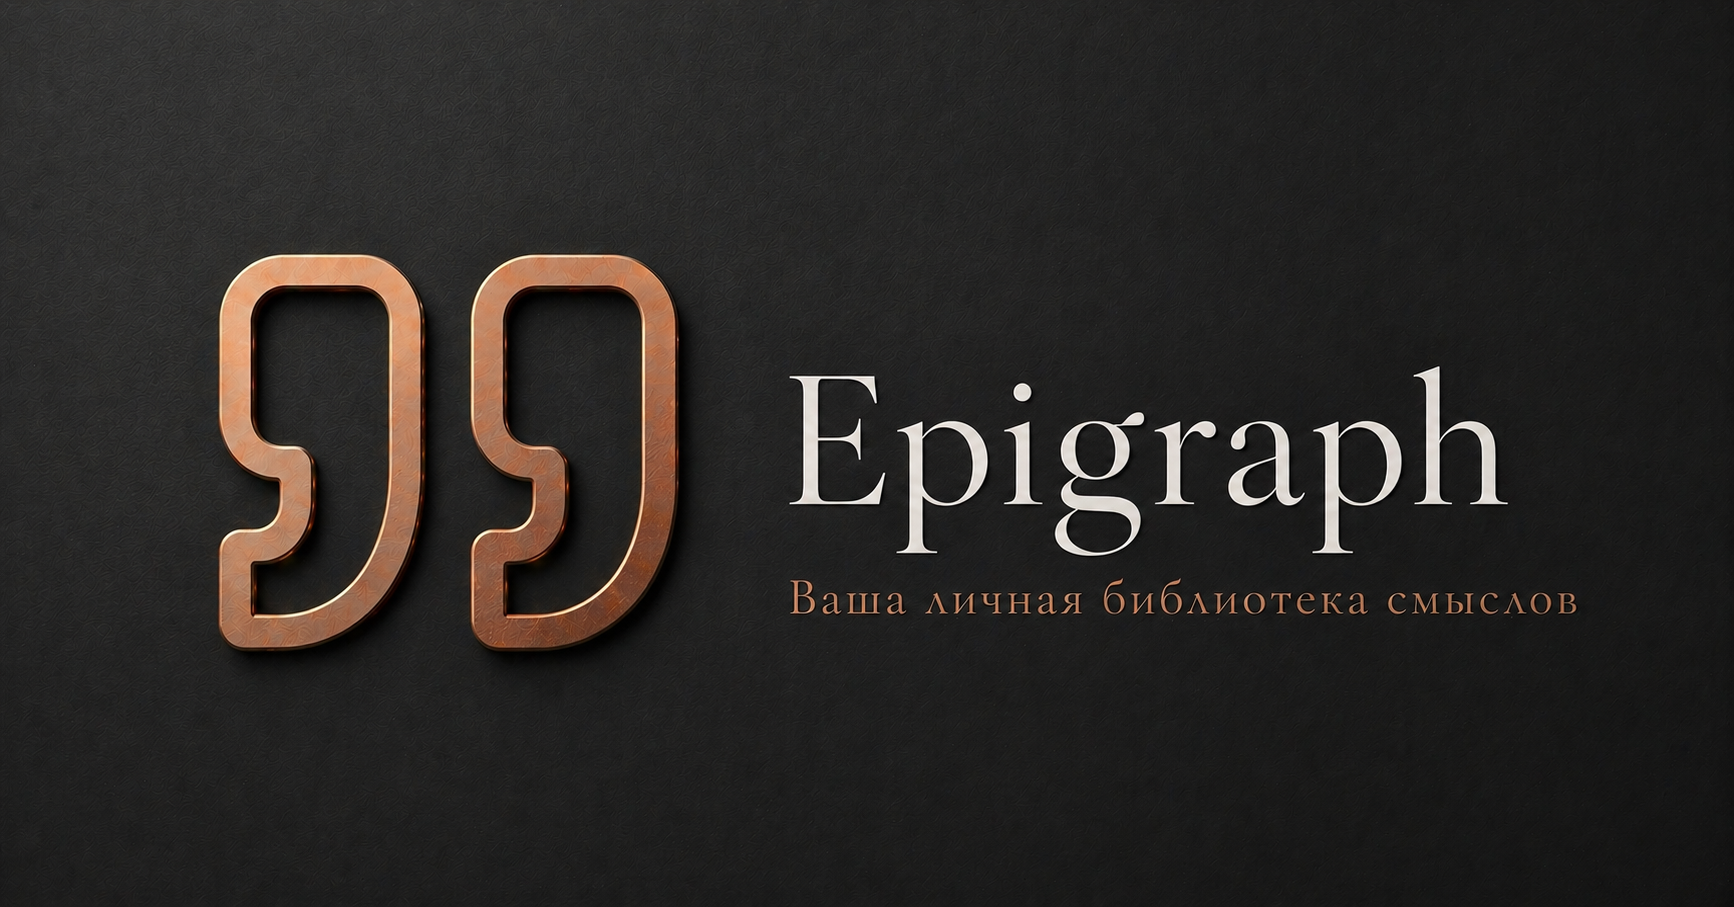
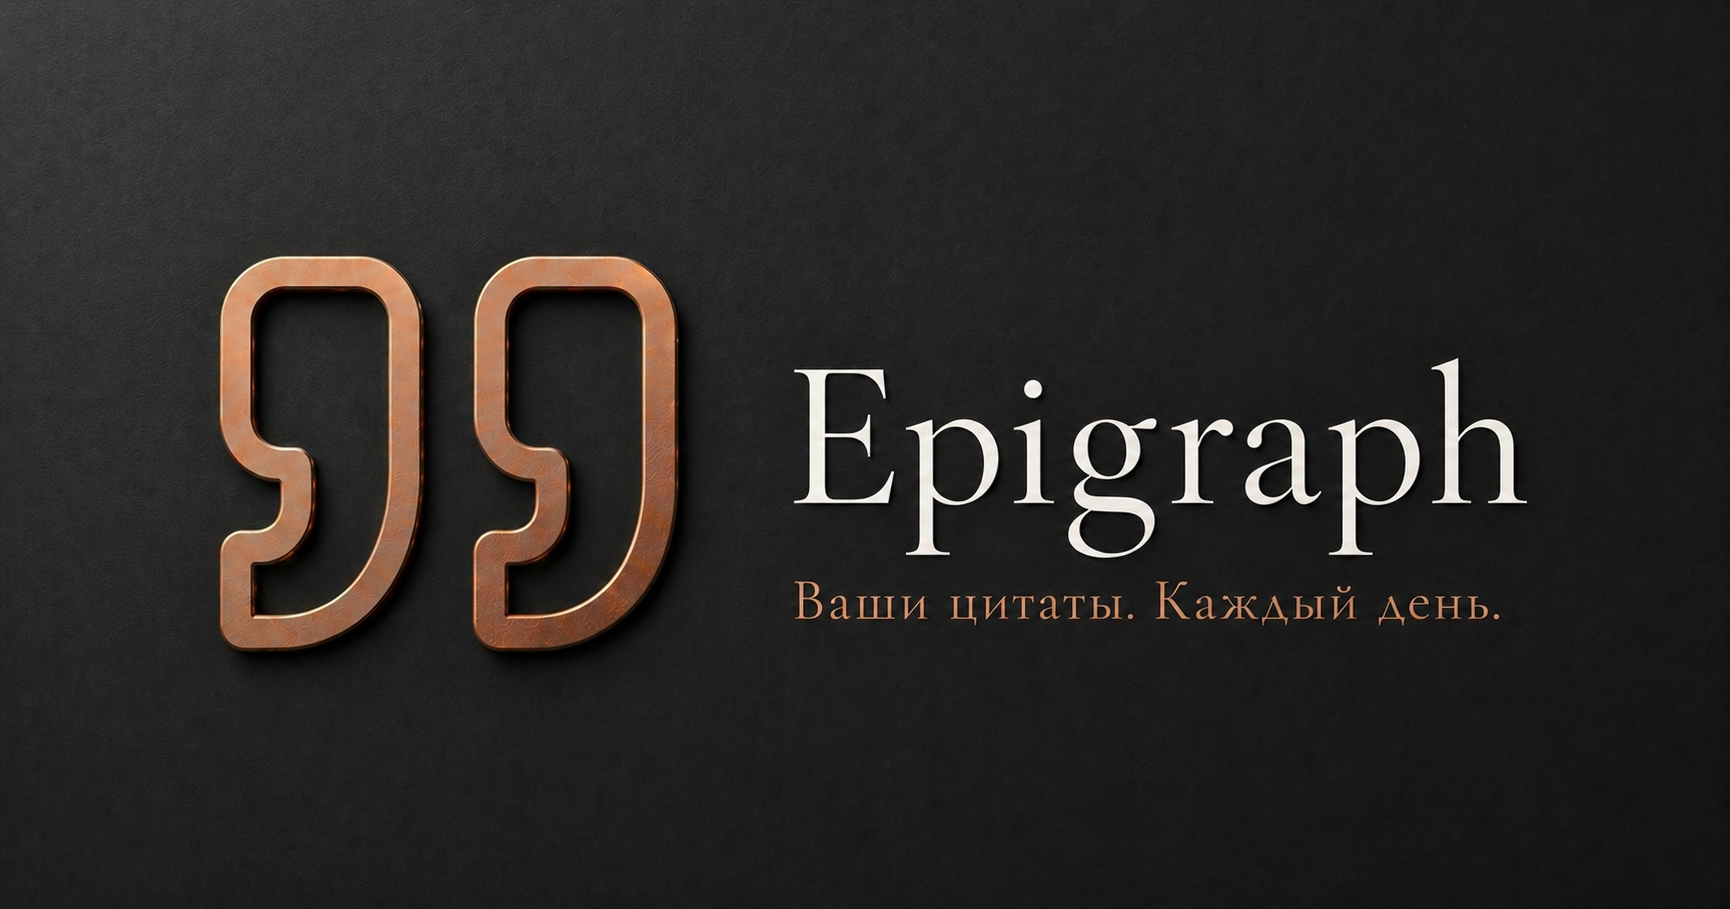
[TASK-62] Redesign auth screens - login gets branding header, register gets quote ornament

diff --git a/backend/src/main/resources/static/index.html b/backend/src/main/resources/static/index.html
@@ -4,7 +4,7 @@
     <meta charset="UTF-8">
     <meta name="viewport" content="width=device-width, initial-scale=1.0">
     <meta name="description"
-          content="Храните и перечитывайте цитаты, которые вас вдохновляют. Ваша личная библиотека смыслов.">
+          content="Ваши цитаты. Каждый день.">
     <meta name="theme-color" content="#f5f2ec" media="(prefers-color-scheme: light)">
     <meta name="theme-color" content="#18160f" media="(prefers-color-scheme: dark)">
     <meta name="theme-color" content="#f5f2ec" id="theme-color-meta">
@@ -33,9 +33,8 @@
     <!-- Open Graph / Social Preview -->
     <meta property="og:type" content="website">
     <meta property="og:url" content="https://epigraph.me/">
-    <meta property="og:title" content="Epigraph — личная коллекция цитат">
-    <meta property="og:description"
-          content="Храните и перечитывайте цитаты, которые вас вдохновляют. Ваша личная библиотека смыслов.">
+    <meta property="og:title" content="Epigraph — ваши цитаты каждый день">
+    <meta property="og:description" content="Ваши цитаты. Каждый день.">
     <meta property="og:image" content="https://epigraph.me/og-image.png">
     <meta property="og:image:width" content="1200">
     <meta property="og:image:height" content="630">
@@ -44,9 +43,8 @@
 
     <!-- Twitter / X Card -->
     <meta name="twitter:card" content="summary_large_image">
-    <meta name="twitter:title" content="Epigraph — личная коллекция цитат">
-    <meta name="twitter:description"
-          content="Храните и перечитывайте цитаты, которые вас вдохновляют. Ваша личная библиотека смыслов.">
+    <meta name="twitter:title" content="Epigraph — ваши цитаты каждый день">
+    <meta name="twitter:description" content="Ваши цитаты. Каждый день.">
     <meta name="twitter:image" content="https://epigraph.me/og-image.png">
     <link rel="apple-touch-icon" href="/icon.png">
     <link rel="preconnect" href="https://fonts.googleapis.com">
@@ -1735,7 +1733,7 @@
             font-size: var(--text-sm);
             color: var(--color-text-muted);
             text-align: center;
-            margin-top: calc(-1 * var(--space-3));
+            margin-top: var(--space-4);
         }
 
         .auth-field {
@@ -1805,13 +1803,164 @@
             background: var(--color-divider);
         }
 
-        .auth-card--register {
-            border-color: var(--color-primary);
-            background: color-mix(in oklch, var(--color-primary) 4%, var(--color-surface));
+        /* Login mode: compact card with branding header */
+        .auth-login-header {
+            margin: calc(-1 * var(--space-8)) calc(-1 * var(--space-8)) 0;
+            padding: var(--space-5) var(--space-8);
+            background: var(--color-surface-offset);
+            border-bottom: 1px solid var(--color-border);
+            border-radius: var(--radius-lg) var(--radius-lg) 0 0;
+            text-align: center;
         }
 
-        .auth-card--register .auth-title {
+        .auth-login-header-logo {
+            display: inline-flex;
+            align-items: center;
+            gap: var(--space-2);
+            font-family: var(--font-display);
+            font-size: var(--text-lg);
+            font-weight: 600;
+            color: var(--color-text);
+            margin-bottom: var(--space-1);
+        }
+
+        .auth-login-header-logo svg {
             color: var(--color-primary);
+            flex-shrink: 0;
+        }
+
+        .auth-login-tagline {
+            font-family: var(--font-display);
+            font-style: italic;
+            font-size: var(--text-sm);
+            color: var(--color-text-muted);
+            line-height: 1.5;
+        }
+
+        /* Register mode: wide two-column card */
+        .auth-card--register {
+            max-width: 780px;
+            flex-direction: row;
+            padding: 0;
+            overflow: hidden;
+            gap: 0;
+        }
+
+        /* Left decorative panel */
+        .auth-register-panel {
+            display: none;
+            flex-direction: column;
+            justify-content: space-between;
+            width: 300px;
+            flex-shrink: 0;
+            background: var(--color-surface-offset);
+            border-right: 1px solid var(--color-border);
+            padding: var(--space-8);
+            border-radius: var(--radius-lg) 0 0 var(--radius-lg);
+        }
+
+        .auth-card--register .auth-register-panel {
+            display: flex;
+        }
+
+        .auth-register-panel-logo {
+            display: flex;
+            align-items: center;
+            gap: var(--space-2);
+            font-family: var(--font-display);
+            font-size: var(--text-base);
+            font-weight: 600;
+            color: var(--color-text);
+        }
+
+        .auth-register-panel-logo svg {
+            color: var(--color-primary);
+            flex-shrink: 0;
+        }
+
+        .auth-register-panel-quotes {
+            display: flex;
+            flex-direction: column;
+            gap: var(--space-6);
+            flex: 1;
+            justify-content: center;
+            padding: var(--space-8) 0;
+        }
+
+        .auth-register-panel-quote {
+            border-left: 2px solid var(--color-primary);
+            padding-left: var(--space-4);
+        }
+
+        .auth-register-panel-quote p {
+            font-family: var(--font-display);
+            font-style: italic;
+            font-size: var(--text-sm);
+            color: var(--color-text);
+            line-height: 1.6;
+            margin-bottom: var(--space-1);
+            max-width: none;
+        }
+
+        .auth-register-panel-quote cite {
+            font-size: var(--text-xs);
+            color: var(--color-text-muted);
+            font-style: normal;
+        }
+
+        .auth-register-panel-tagline {
+            font-size: var(--text-xs);
+            color: var(--color-text-faint);
+        }
+
+        /* Right form column */
+        .auth-register-form-col {
+            display: none;
+            flex-direction: column;
+            gap: var(--space-5);
+            flex: 1;
+            padding: var(--space-8);
+            min-width: 0;
+        }
+
+        .auth-card--register .auth-register-form-col {
+            display: flex;
+        }
+
+        /* Hide top branding header in register mode (it's in left panel) */
+        .auth-card--register .auth-login-header {
+            display: none !important;
+        }
+
+        /* Register top heading inside form col */
+        .auth-register-top {
+            display: flex;
+            flex-direction: column;
+            gap: var(--space-1);
+        }
+
+        .auth-register-heading {
+            font-family: var(--font-display);
+            font-size: var(--text-xl);
+            font-weight: 500;
+            color: var(--color-text);
+        }
+
+        .auth-register-sub {
+            font-size: var(--text-sm);
+            color: var(--color-text-muted);
+        }
+
+        /* Hide login-mode elements directly in the card when in register mode */
+        .auth-card--register > .auth-subtitle,
+        .auth-card--register > .auth-field,
+        .auth-card--register > #auth-password-hint,
+        .auth-card--register > .auth-error,
+        .auth-card--register > #auth-submit-btn,
+        .auth-card--register > .auth-divider,
+        .auth-card--register > .btn-google,
+        .auth-card--register > .auth-switch {
+            display: none !important;
         }
 
         .btn-google {
@@ -1892,7 +2041,81 @@
 <!-- AUTH MODAL -->
 <div class="auth-screen" id="auth-screen" onclick="handleAuthOverlayClick(event)">
     <div class="auth-card">
-        <h1 class="auth-title">Epigraph</h1>
+
+        <!-- Login branding header — visible in login mode -->
+        <div class="auth-login-header" id="auth-login-header">
+            <div class="auth-login-header-logo">
+                <svg width="18" height="18" viewBox="0 0 24 24" fill="none" stroke="currentColor" stroke-width="2" stroke-linecap="round" stroke-linejoin="round" aria-hidden="true">
+                    <path d="M3 21c3 0 7-1 7-8V5c0-1.25-.756-2.017-2-2H4c-1.25 0-2 .75-2 1.972V11c0 1.25.75 2 2 2 1 0 1 0 1 1v1c0 1-1 2-2 2s-1 .008-1 1.031V20c0 1 0 1 1 1z"/>
+                    <path d="M15 21c3 0 7-1 7-8V5c0-1.25-.757-2.017-2-2h-4c-1.25 0-2 .75-2 1.972V11c0 1.25.75 2 2 2h.75c0 2.25.25 4-2.75 4v3c0 1 0 1 1 1z"/>
+                </svg>
+                Epigraph
+            </div>
+            <p class="auth-login-tagline">Ваши цитаты. Каждый день.</p>
+        </div>
+
+        <!-- Register two-column layout — visible in register mode only -->
+        <div class="auth-register-panel" id="auth-register-panel">
+            <div class="auth-register-panel-logo">
+                <svg width="16" height="16" viewBox="0 0 24 24" fill="none" stroke="currentColor" stroke-width="2" stroke-linecap="round" stroke-linejoin="round" aria-hidden="true">
+                    <path d="M3 21c3 0 7-1 7-8V5c0-1.25-.756-2.017-2-2H4c-1.25 0-2 .75-2 1.972V11c0 1.25.75 2 2 2 1 0 1 0 1 1v1c0 1-1 2-2 2s-1 .008-1 1.031V20c0 1 0 1 1 1z"/>
+                    <path d="M15 21c3 0 7-1 7-8V5c0-1.25-.757-2.017-2-2h-4c-1.25 0-2 .75-2 1.972V11c0 1.25.75 2 2 2h.75c0 2.25.25 4-2.75 4v3c0 1 0 1 1 1z"/>
+                </svg>
+                Epigraph
+            </div>
+            <div class="auth-register-panel-quotes">
+                <div class="auth-register-panel-quote">
+                    <p>Не важно, как медленно ты идёшь, главное — не останавливаться.</p>
+                    <cite>— Конфуций</cite>
+                </div>
+                <div class="auth-register-panel-quote">
+                    <p>Жизнь — это то, что происходит, пока ты строишь другие планы.</p>
+                    <cite>— Джон Леннон</cite>
+                </div>
+                <div class="auth-register-panel-quote">
+                    <p>Начало — это половина всего.</p>
+                    <cite>— Аристотель</cite>
+                </div>
+            </div>
+            <p class="auth-register-panel-tagline">Ваши цитаты. Каждый день.</p>
+        </div>
+
+        <div class="auth-register-form-col" id="auth-register-form-col">
+            <div class="auth-register-top">
+                <h2 class="auth-register-heading">Создайте аккаунт</h2>
+                <p class="auth-register-sub">Это бесплатно. Навсегда.</p>
+            </div>
+            <div class="auth-field">
+                <label for="auth-email-reg">Email</label>
+                <input type="email" id="auth-email-reg" placeholder="[email redacted]" autocomplete="email">
+            </div>
+            <div class="auth-field">
+                <label for="auth-password-reg">Пароль</label>
+                <input type="password" id="auth-password-reg" placeholder="Минимум 8 символов" autocomplete="new-password">
+            </div>
+            <p id="auth-password-hint-reg" style="font-size:var(--text-xs);color:var(--color-text-muted);margin-top:calc(-1*var(--space-3))">
+                Минимум 8 символов, хотя бы одна буква и одна цифра.
+            </p>
+            <p class="auth-error" id="auth-error-reg"></p>
+            <button class="btn-primary" id="auth-submit-btn-reg" onclick="authSubmitRegister()">Зарегистрироваться</button>
+            <div class="auth-divider">или</div>
+            <button class="btn-google" onclick="loginWithGoogle()">
+                <svg width="18" height="18" viewBox="0 0 48 48">
+                    <path fill="#EA4335" d="M24 9.5c3.54 0 6.71 1.22 9.21 3.6l6.85-6.85C35.9 2.38 30.47 0 24 0 14.62 0 6.51 5.38 2.56 13.22l7.98 6.19C12.43 13.72 17.74 9.5 24 9.5z"/>
+                    <path fill="#4285F4" d="M46.98 24.55c0-1.57-.15-3.09-.38-4.55H24v9.02h12.94c-.58 2.96-2.26 5.48-4.78 7.18l7.73 6c4.51-4.18 7.09-10.36 7.09-17.65z"/>
+                    <path fill="#FBBC05" d="M10.53 28.59c-.48-1.45-.76-2.99-.76-4.59s.27-3.14.76-4.59l-7.98-6.19C.92 16.46 0 20.12 0 24c0 3.88.92 7.54 2.56 10.78l7.97-6.19z"/>
+                    <path fill="#34A853" d="M24 48c6.48 0 11.93-2.13 15.89-5.81l-7.73-6c-2.18 1.48-4.97 2.31-8.16 2.31-6.26 0-11.57-4.22-13.47-9.91l-7.98 6.19C6.51 42.62 14.62 48 24 48z"/>
+                </svg>
+                Войти через Google
+            </button>
+            <p class="auth-switch" style="text-align:center">
+                <span>Уже есть аккаунт?</span>
+                <button onclick="toggleAuthMode()">Войти</button>
+            </p>
+        </div>
+
+        <!-- Shown in login mode only -->
+        <h1 class="auth-title" id="auth-title-logo" style="display:none">Epigraph</h1>
         <p class="auth-subtitle" id="auth-subtitle">Войдите, чтобы продолжить</p>
 
         <div class="auth-field">
@@ -1901,7 +2124,7 @@
         </div>
         <div class="auth-field">
             <label for="auth-password">Пароль</label>
-            <input type="password" id="auth-password" placeholder="Минимум 6 символов" autocomplete="current-password">
+            <input type="password" id="auth-password" placeholder="Ваш пароль" autocomplete="current-password">
         </div>
 
         <p id="auth-password-hint"
@@ -1917,14 +2140,10 @@
 
         <button class="btn-google" onclick="loginWithGoogle()">
             <svg width="18" height="18" viewBox="0 0 48 48">
-                <path fill="#EA4335"
-                      d="M24 9.5c3.54 0 6.71 1.22 9.21 3.6l6.85-6.85C35.9 2.38 30.47 0 24 0 14.62 0 6.51 5.38 2.56 13.22l7.98 6.19C12.43 13.72 17.74 9.5 24 9.5z"/>
-                <path fill="#4285F4"
-                      d="M46.98 24.55c0-1.57-.15-3.09-.38-4.55H24v9.02h12.94c-.58 2.96-2.26 5.48-4.78 7.18l7.73 6c4.51-4.18 7.09-10.36 7.09-17.65z"/>
-                <path fill="#FBBC05"
-                      d="M10.53 28.59c-.48-1.45-.76-2.99-.76-4.59s.27-3.14.76-4.59l-7.98-6.19C.92 16.46 0 20.12 0 24c0 3.88.92 7.54 2.56 10.78l7.97-6.19z"/>
-                <path fill="#34A853"
-                      d="M24 48c6.48 0 11.93-2.13 15.89-5.81l-7.73-6c-2.18 1.48-4.97 2.31-8.16 2.31-6.26 0-11.57-4.22-13.47-9.91l-7.98 6.19C6.51 42.62 14.62 48 24 48z"/>
+                <path fill="#EA4335" d="M24 9.5c3.54 0 6.71 1.22 9.21 3.6l6.85-6.85C35.9 2.38 30.47 0 24 0 14.62 0 6.51 5.38 2.56 13.22l7.98 6.19C12.43 13.72 17.74 9.5 24 9.5z"/>
+                <path fill="#4285F4" d="M46.98 24.55c0-1.57-.15-3.09-.38-4.55H24v9.02h12.94c-.58 2.96-2.26 5.48-4.78 7.18l7.73 6c4.51-4.18 7.09-10.36 7.09-17.65z"/>
+                <path fill="#FBBC05" d="M10.53 28.59c-.48-1.45-.76-2.99-.76-4.59s.27-3.14.76-4.59l-7.98-6.19C.92 16.46 0 20.12 0 24c0 3.88.92 7.54 2.56 10.78l7.97-6.19z"/>
+                <path fill="#34A853" d="M24 48c6.48 0 11.93-2.13 15.89-5.81l-7.73-6c-2.18 1.48-4.97 2.31-8.16 2.31-6.26 0-11.57-4.22-13.47-9.91l-7.98 6.19C6.51 42.62 14.62 48 24 48z"/>
             </svg>
             Войти через Google
         </button>
@@ -2758,19 +2977,32 @@
         authMode = authMode === 'login' ? 'register' : 'login';
         const isRegister = authMode === 'register';
 
-        document.getElementById('auth-subtitle').textContent = isRegister
-            ? 'Создайте аккаунт, это бесплатно'
-            : 'Войдите, чтобы продолжить';
         document.getElementById('auth-submit-btn').textContent = isRegister ? 'Зарегистрироваться' : 'Войти';
         document.getElementById('auth-switch-text').textContent = isRegister ? 'Уже есть аккаунт?' : 'Нет аккаунта?';
         document.querySelector('#auth-screen .auth-switch button').textContent = isRegister ? 'Войти' : 'Зарегистрироваться';
         document.getElementById('auth-error').textContent = '';
 
-        // Visual distinction: teal tint on register mode
+        // Toggle card width for register mode
         const card = document.querySelector('.auth-card');
         card.classList.toggle('auth-card--register', isRegister);
 
-        // Show/hide password hint and update placeholder for register mode
+        const loginHeader = document.getElementById('auth-login-header');
+        const registerPanel = document.getElementById('auth-register-panel');
+        const registerFormCol = document.getElementById('auth-register-form-col');
+        const subtitle = document.getElementById('auth-subtitle');
+
+        if (loginHeader) loginHeader.style.display = isRegister ? 'none' : '';
+        if (registerPanel) registerPanel.style.display = isRegister ? '' : 'none';
+        if (registerFormCol) registerFormCol.style.display = isRegister ? '' : 'none';
+        if (subtitle) subtitle.style.display = isRegister ? 'none' : '';
+
+        // Sync email if switching back from register to login
+        if (!isRegister) {
+            const regEmail = document.getElementById('auth-email-reg')?.value.trim();
+            if (regEmail) document.getElementById('auth-email').value = regEmail;
+        }
+
+        // Password field: update hint, placeholder and autocomplete
         const hint = document.getElementById('auth-password-hint');
         const passInput = document.getElementById('auth-password');
 
@@ -2864,6 +3096,28 @@
             btn.disabled = false;
             btn.textContent = authMode === 'register' ? 'Зарегистрироваться' : 'Войти';
         }
+    }
+
+    /**
+     * Handles registration form submission from the register two-column layout.
+     */
+    async function authSubmitRegister() {
+        const email = document.getElementById('auth-email-reg')?.value.trim() || '';
+        const password = document.getElementById('auth-password-reg')?.value || '';
+        const errorEl = document.getElementById('auth-error-reg');
+
+        // Reuse same validation as main form
+        const emailRe = /^[^\s@]+@[^\s@]+\.[^\s@]{2,}$/;
+        const passRe = /^(?=.*[A-Za-zА-Яа-яЁё])(?=.*\d).{8,}$/;
+        if (!emailRe.test(email)) { if (errorEl) errorEl.textContent = 'Введите корректный email.'; return; }
+        if (!passRe.test(password)) { if (errorEl) errorEl.textContent = 'Минимум 8 символов, буква и цифра.'; return; }
+        if (errorEl) errorEl.textContent = '';
+
+        // Temporarily sync to main fields so existing authSubmit logic works
+        document.getElementById('auth-email').value = email;
+        document.getElementById('auth-password').value = password;
+        authMode = 'register';
+        await authSubmit();
     }
 
     function loginWithGoogle() {